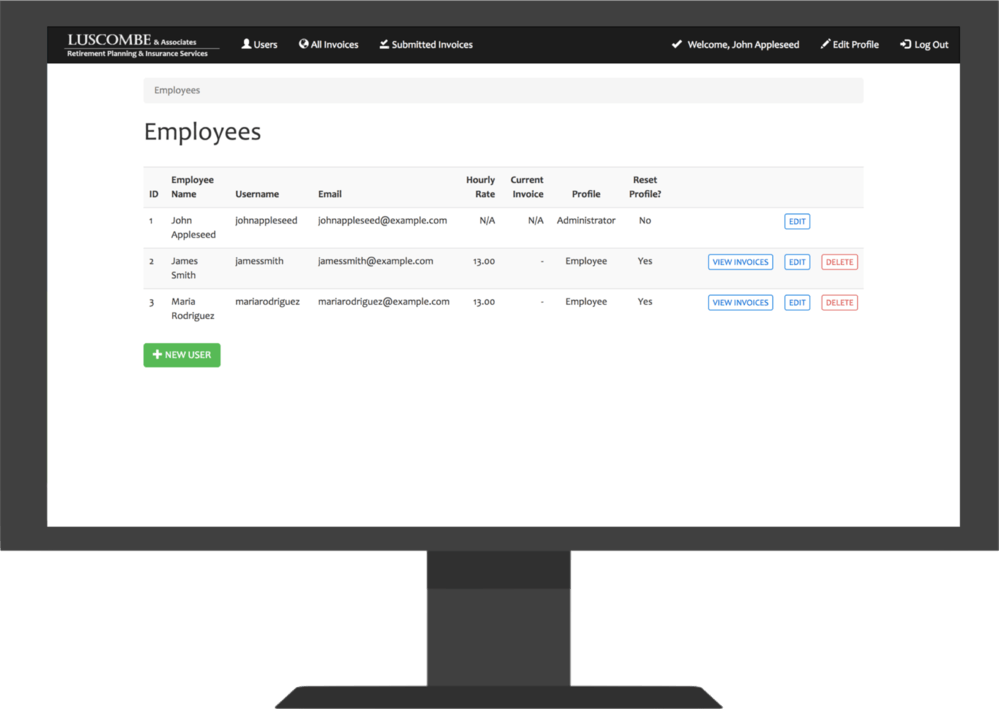
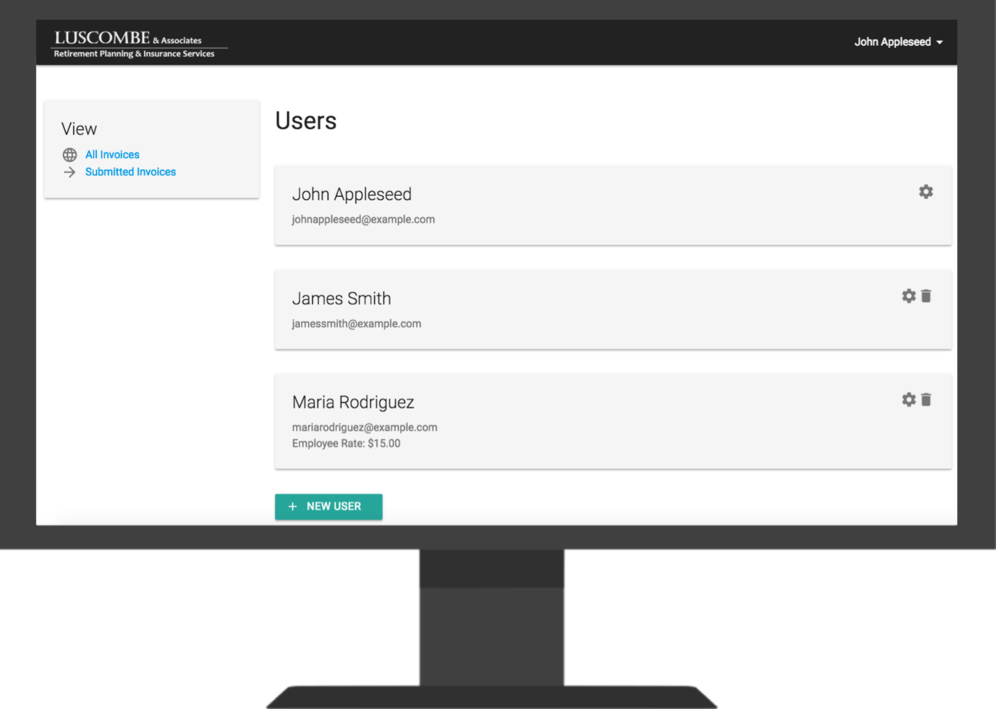
Added more courses, skills, and updated project screenshot (1.1)

diff --git a/templates/education.html b/templates/education.html
@@ -35,23 +35,40 @@
         <div class="row">
             <div class="col-xl-8 offset-xl-4 col-12 course-right">
                 <div>
-                    <h5 class="course-title">Data Structures and Algorithms</h5>
+                    <h5 class="course-title">Database Systems</h5>
                     <h6 class="no-uppercase">
-                        As time goes on, consumers are getting increasingly impatient with devices and applications with
-                        poor performance. What's worse, far too many programmers are entirely focused with getting their
-                        content published, without giving a second thought to the efficiency of their programs. Not only
-                        did this class introduce me to several of the data structures and algorithms that give these
-                        applications an edge in performance, it also taught me how to use discern which ones to use in
-                        order to maximize efficiency and minimize computational complexity.
+                        Databases are the backbone to the data that is becoming increasingly valuable in our
+                        hyperconnected world. There are many types of databases available, so it is very useful to know
+                        which type best serves a particular business problem. This class taught me the pros and cons
+                        of each type of database, as well as the details of how they work. That way, I can look at a
+                        business problem or a set of data, and effectively determine which database would provide the
+                        most benefits.
                     </h6>
                 </div>
-                <img src="/static/img/fractal.jpg" alt="Fractal" class="course-image-right">
+                <img src="/static/img/database.png" alt="Database" class="course-image-right">
             </div>
         </div>
 
         <div class="row">
             <div class="col-xl-8 col-12 course">
-                <img src="/static/img/code.jpg" alt="Code" class="course-image">
+                <img src="/static/img/security.jpg" alt="Security" class="course-image">
+                <div>
+                    <h5 class="course-title">Computer and Network Security</h5>
+                    <h6 class="no-uppercase">
+                        Implementing advanced security precautions into applications is no longer optional. With
+                        sophisticated attacks such as WannaCry and Petya becoming increasingly common, it is essential
+                        for developers to know defensive programming techniques. Throughout this course, I completed
+                        several projects that taught me the inner workings of common attacks, such as Cross-Site Request
+                        Forgery (CSRF), Cross-Site Scripting (XSS), and SQL Injection, as well as how to discover and
+                        patch vulnerabilities. Knowing the details of how these attacks work has equipped me to write
+                        software that defends against such attacks.
+                    </h6>
+                </div>
+            </div>
+        </div>
+
+        <div class="row">
+            <div class="col-xl-8 offset-xl-4 col-12 course-right">
                 <div>
                     <h5 class="course-title">Software Engineering</h5>
                     <h6 class="no-uppercase">
@@ -63,11 +80,13 @@
                         improve my leadership through project management.
                     </h6>
                 </div>
+                <img src="/static/img/code.jpg" alt="Code" class="course-image-right">
             </div>
         </div>
 
         <div class="row">
-            <div class="col-xl-8 offset-xl-4 col-12 course-right">
+            <div class="col-xl-8 col-12 course">
+                <img src="/static/img/software.png" alt="software" class="course-image">
                 <div>
                     <h5 class="course-title">Software Studio</h5>
                     <h6 class="no-uppercase">
@@ -77,56 +96,6 @@
                         semester, I spent 12 hours a week helping to develop a Django web application for Tiny Hands, a
                         Christian non-profit organization. This course really helped me further my understanding of
                         what software development was like outside of an academic setting.
-                    </h6>
-                </div>
-                <img src="/static/img/software.png" alt="software" class="course-image-right">
-            </div>
-        </div>
-
-        <div class="row">
-            <div class="col-xl-8 col-12 course">
-                <img src="/static/img/mobile.jpg" alt="iPhone" class="course-image">
-                <div>
-                    <h5 class="course-title">Mobile Application Development</h5>
-                    <h6 class="no-uppercase">
-                        In a world that is getting increasingly mobile, knowing how to create applications for
-                        smartphones is a highly valued skill. However, simply getting an application working doesn't cut
-                        it in our highly competitive society. Throughout this course, I learned how to use Android
-                        Studio to create rich, powerful applications that effectively utilize smartphone features,
-                        without unnecessarily compromising performance and power efficiency.
-                    </h6>
-                </div>
-            </div>
-        </div>
-
-        <div class="row">
-            <div class="col-xl-8 offset-xl-4 col-12 course-right">
-                <div>
-                    <h5 class="course-title">Language Structures</h5>
-                    <h6 class="no-uppercase">
-                        If a hammer is the only tool that a craftsman knows how to use, he will not be
-                        effective at his job. Similarly, if a programmer only knows one language paradigm,
-                        he will not know how to solve certain problems efficiently. In addition to teaching
-                        me how different programming languages are structured, this course also taught me some
-                        of the different language paradigms, and how to determine which one best solves a
-                        particular problem.
-                    </h6>
-                </div>
-                <img src="/static/img/structure.jpg" alt="Structure" class="course-image-right">
-            </div>
-        </div>
-
-        <div class="row">
-            <div class="col-xl-8 col-12 course">
-                <img src="/static/img/phci.jpg" alt="Principles of Human Computer Interaction" class="course-image">
-                <div>
-                    <h5 class="course-title">Principles of Human Computer Interaction</h5>
-                    <h6 class="no-uppercase">
-                        As our society becomes increasingly digital, people are interacting with computers more and
-                        more, in one form or another. So, it is crucial for software developers to know how to build
-                        user interfaces and experiences that facilitate this interaction. This class not only helped me
-                        develop this valuable skill, it also taught me how to apply the idea of people-centered design
-                        to my work in software development.
                     </h6>
                 </div>
             </div>
@@ -158,14 +127,15 @@
 
         <div class="row">
             <div class="col-xl-8 col-12 course">
-                <img src="/static/img/database.png" alt="Database" class="course-image">
+                <img src="/static/img/mobile.jpg" alt="iPhone" class="course-image">
                 <div>
-                    <h5 class="course-title">Database Systems</h5>
+                    <h5 class="course-title">Mobile Application Development</h5>
                     <h6 class="no-uppercase">
-                        Data is becoming increasingly valuable in our hyperconnected world. But, in order for
-                        it to be of value, it has to be stored <em>somewhere</em>: namely, databases. This fall,
-                        I will be exploring how database technologies work, as well as how to store and
-                        interact with data most effectively and efficiently.
+                        In a world that is getting increasingly mobile, knowing how to create applications for
+                        smartphones is a highly valued skill. However, simply getting an application working doesn't cut
+                        it in our highly competitive society. Throughout this course, I learned how to use Android
+                        Studio to create rich, powerful applications that effectively utilize smartphone features,
+                        without unnecessarily compromising performance and power efficiency.
                     </h6>
                 </div>
             </div>
@@ -174,16 +144,83 @@
         <div class="row">
             <div class="col-xl-8 offset-xl-4 col-12 course-right">
                 <div>
-                    <h5 class="course-title">Computer and Network Security</h5>
+                    <h5 class="course-title">Principles of Human Computer Interaction</h5>
                     <h6 class="no-uppercase">
-                        Implementing advanced security precautions into applications is no longer optional.
-                        With sophisticated attacks such as WannaCry and Petya becoming increasingly common,
-                        it is essential for developers to know all of the common attacks and defensive
-                        programming techniques. This fall, I will learn the details of how these attacks work,
-                        as well as how to ensure that the software I write defends against such vulnerabilities.
+                        As our society becomes increasingly digital, people are interacting with computers more and
+                        more, in one form or another. So, it is crucial for software developers to know how to build
+                        user interfaces and experiences that facilitate this interaction. This class not only helped me
+                        develop this valuable skill, it also taught me how to apply the idea of people-centered design
+                        to my work in software development.
                     </h6>
                 </div>
-                <img src="/static/img/security.jpg" alt="Security" class="course-image-right">
+                <img src="/static/img/phci.jpg" alt="Principles of Human Computer Interaction" class="course-image-right">
+            </div>
+        </div>
+
+        <div class="row">
+            <div class="col-xl-8 col-12 course">
+                <img src="/static/img/operations-research.jpg" alt="Operations Research" class="course-image">
+                <div>
+                    <h5 class="course-title">Operations Research</h5>
+                    <h6 class="no-uppercase">
+                        The key to being an excellent leader in the workforce is having a strong ability to make
+                        informed decisions. This course taught me how to use linear programming to make these decisions,
+                        given a set of variables, constraints, and an objective (such as maximizing profit or minimizing
+                        cost). Learning this skill has given me the toolset needed to make intelligent decisions, and
+                        in turn become a much more effective leader in the workplace.
+                    </h6>
+                </div>
+            </div>
+        </div>
+
+        <div class="row">
+            <div class="col-xl-8 offset-xl-4 col-12 course-right">
+                <div>
+                    <h5 class="course-title">Data Structures and Algorithms</h5>
+                    <h6 class="no-uppercase">
+                        As time goes on, consumers are getting increasingly impatient with devices and applications with
+                        poor performance. What's worse, far too many programmers are entirely focused with getting their
+                        content published, without giving a second thought to the efficiency of their programs. Not only
+                        did this class introduce me to several of the data structures and algorithms that give these
+                        applications an edge in performance, it also taught me how to use discern which ones to use in
+                        order to maximize efficiency and minimize computational complexity.
+                    </h6>
+                </div>
+                <img src="/static/img/fractal.jpg" alt="Fractal" class="course-image-right">
+            </div>
+        </div>
+
+        <div class="row">
+            <div class="col-xl-8 col-12 course">
+                <img src="/static/img/structure.jpg" alt="Structure" class="course-image">
+                <div>
+                    <h5 class="course-title">Language Structures</h5>
+                    <h6 class="no-uppercase">
+                        If a hammer is the only tool that a craftsman knows how to use, he will not be
+                        effective at his job. Similarly, if a programmer only knows one language paradigm,
+                        he will not know how to solve certain problems efficiently. In addition to teaching
+                        me how different programming languages are structured, this course also taught me some
+                        of the different language paradigms, and how to determine which one best solves a
+                        particular problem.
+                    </h6>
+                </div>
+            </div>
+        </div>
+
+        <div class="row">
+            <div class="col-xl-8 offset-xl-4 col-12 course-right">
+                <div>
+                    <h5 class="course-title">Data Communications</h5>
+                    <h6 class="no-uppercase">
+                        As more and more applications become available to consumers, developers are growing increasingly
+                        dependent on the internet. Unfortunately, far too few developers actually know the details of
+                        how the internet works, and how data gets from point A to point B. This spring, I will have the
+                        opportunity to learn these essential details, from the concepts of data transmission to
+                        communication protocols. That way, I will be much better equipped to develop and debug
+                        applications that depend on the internet.
+                    </h6>
+                </div>
+                <img src="/static/img/data-communications.jpg" alt="Network Cables" class="course-image-right">
             </div>
         </div>
     </div>

diff --git a/templates/technical-skills.html b/templates/technical-skills.html
@@ -103,6 +103,26 @@
                 </div>
 
                 <div class="technology-block col-12">
+                    <h5 class="technology">PostgreSQL</h5>
+                    <div class="meter-background">
+                        <div class="meter">
+                            <div class="meter-needle-135"></div>
+                        </div>
+                    </div>
+                    <h6 class="technology-skill-level">Advanced</h6>
+                </div>
+
+                <div class="technology-block col-12">
+                    <h5 class="technology">MySQL</h5>
+                    <div class="meter-background">
+                        <div class="meter">
+                            <div class="meter-needle-90"></div>
+                        </div>
+                    </div>
+                    <h6 class="technology-skill-level">Intermediate</h6>
+                </div>
+
+                <div class="technology-block col-12">
                     <h5 class="technology">Microsoft Visual Studio</h5>
                     <div class="meter-background">
                         <div class="meter">

diff --git a/templates/footer.html b/templates/footer.html
@@ -27,5 +27,5 @@
         <a href="https://www.linkedin.com/in/john-luscombe-932a43106/" target="_blank"><i class="fa fa-linkedin"></i></a>
         <a href="mailto:jluscombe96@gmail.com"><i class="fa fa-envelope-o" target="_blank"></i></a>
     </div><br>
-    <p>© 2017 John Luscombe. All rights reserved.</p>
+    <p>© {{ now.year }} John Luscombe. All rights reserved.</p>
 </div>

diff --git a/johnwluscombe.py b/johnwluscombe.py
@@ -3,6 +3,9 @@ from flask import jsonify
 from flask import render_template
 from flask import request
 
+from datetime import datetime
+from datetime import timedelta
+
 import boto3
 import http.client
 import json
@@ -15,7 +18,7 @@ app = Flask(__name__)
 
 @app.route('/')
 def index():
-    return render_template('index.html')
+    return render_template('index.html', now=datetime.utcnow() - timedelta(hours=5))
 
 
 def recaptcha_is_valid(token):
